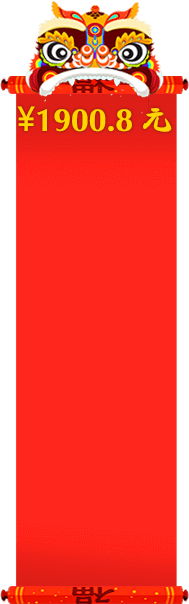
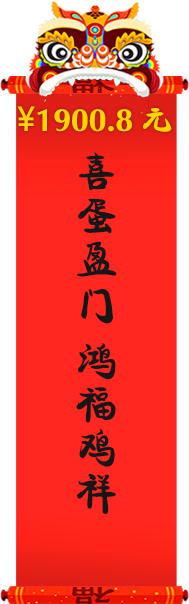
正常提交

diff --git a/LaneWeChat/yangjiguanjia/send_happyegg/buy_egg.html b/LaneWeChat/yangjiguanjia/send_happyegg/buy_egg.html
@@ -14,9 +14,43 @@
 		body{height: 100%;width: 100%;background-color:#efa230;}
 		.price_ul{margin:0 auto;margin-top: 2.5rem;width: 6.9rem;height: 6rem;}
 		.price_ul li{float: left;width: 1.8rem;margin:0 .25rem;position: relative;}
-		.kuang{position: absolute;bottom: .3rem;left: 50%;width: .5rem;height:.5rem;border:2px solid #000;border-radius:.1rem;margin-left: -0.2rem;}
-		.gou{height: .5rem;width: .5rem;}
+		.kuang{position: absolute;bottom: .3rem;left: 50%;width: .3rem;height:.3rem;border:2px solid #000;border-radius:.1rem;margin-left: -0.2rem;}
+		.gou{height: .3rem;width: .5rem;}
 		.username{width:4.6rem;height:0.9rem;line-height:.9rem;font-family:黑体;font-size: .28rem;color: #000;background-color: #fff;text-align: center;border-radius: .1rem;margin:0 auto;display: block;margin-top: 0.2rem;}
+		.weui-agree__checkbox:checked:before {
+		    font-family: weui;
+		    font-style: normal;
+		    font-weight: 400;
+		    font-variant: normal;
+		    text-transform: none;
+		    text-align: center;
+		    speak: none;
+		    display: inline-block;
+		    vertical-align: middle;
+		    text-decoration: inherit;
+		    content: "\EA08";
+		    color: #09bb07;
+		    font-size: 13px;
+		    position: absolute;
+		    top: 50%;
+		    left: 50%;
+		    -webkit-transform: translate(-50%,-48%) scale(.73);
+		    transform: translate(-50%,-48%) scale(.73);
+		}
+		.weui-agree__checkbox {
+		    -webkit-appearance: none;
+		    appearance: none;
+		    outline: 0;
+		    font-size: 0;
+		    border: 1px solid #d1d1d1;
+		    background-color: #fff;
+		    border-radius: 3px;
+		    width: 13px;
+		    height: 13px;
+		    position: relative;
+		    vertical-align: 0;
+		    top: 2px;
+		}
 		</style>
 	</head>
 	<body>
@@ -28,7 +62,7 @@
 					<label for="x11">
 						<img src="assets/img/buy_1.png" alt="">
 						<div @click='chose_price(0)' class="kuang">
-	                    	<input type="radio" name="radio1" class="weui-check" id="x11" v-model="picked" value="1900.8">
+	                 <input type="radio"  class="weui-check" id="x11" v-model="picked" value="1900.8">
 	                    	<img v-show=arr[0] class="gou" src="assets/img/gou.png" alt="">
 	                    </div>
 					</label>
@@ -37,7 +71,7 @@
 					<label for="x12">
 						<img src="assets/img/buy_2.png" alt="">
 						<div @click='chose_price(1)' class="kuang">
-	                    	<input type="radio" name="radio1" class="weui-check" id="x12" v-model="picked" value="950.6">
+	                  <input type="radio"  class="weui-check" id="x12" v-model="picked" value="950.6">
 	                   	 	<img v-show=arr[1] class="gou" src="assets/img/gou.png" alt="">
 	               		 </div>
 					</label>
@@ -46,15 +80,21 @@
 					<label for="x13">
 						<img src="assets/img/buy_3.png" alt="">
 						<div @click='chose_price(2)' class="kuang">
-	                    	<input type="radio" name="radio1" class="weui-check" id="x13" v-model="picked" value="39.6">
+	                   <input type="radio"  class="weui-check" id="x13" v-model="picked" value="39.6">
 	                    	<img v-show=arr[2] class="gou" src="assets/img/gou.png" alt="">
 	                	</div>
 					</label>
 				</li>
 			</ul>
-			<div class="weui-cell__bd">
+			<div style="margin-bottom: 1rem;" class="weui-cell__bd">
                    <input class="username" v-model="name" type="text" placeholder="请输入您的名字">
-                   <p style="margin-bottom: 1.2rem;" @click='show_wishword(0)' class="username">{{message}}</p>
+                   <p style="margin-bottom: .1rem;" @click='show_wishword(0)' class="username">{{message}}</p>
+                   <label @click='agree' style="width: 4.6rem;margin:0 auto;" for="weuiAgree" class="weui-agree">
+            			<input id="weuiAgree" class="weui-agree__checkbox" type="checkbox" checked="checked">
+            			<span style="font-family: '黑体';color: #171717;font-weight: .18rem;" class="weui-agree__text">
+                		我已阅读并同意<a href="javascript:void(0);">《活动规则》</a>
+            			</span>
+        			</label>
             </div>
            <!--  <div @click='showwish_word(0)' class="page__bd page__bd_spacing">
         			<a href="javascript:;" class="weui-btn weui-btn_default" style="height: 1rem;font-size: .32rem;line-height: 1rem;width: 4.6rem;background-color: #da3522;font-family: 黑体;">请选择祝福语</a>
@@ -66,7 +106,9 @@
                 		<div @click='chose_wishword(0)' class="weui-actionsheet__cell">{{wish_arr[0]}}</div>
                 		<div @click='chose_wishword(1)' class="weui-actionsheet__cell">{{wish_arr[1]}}</div>
                			<div @click='chose_wishword(2)' class="weui-actionsheet__cell">{{wish_arr[2]}}</div>
-                		<div @click='chose_wishword(3)' class="weui-actionsheet__cell">{{wish_arr[3]}}</div>
+               			<div @click='chose_wishword(3)' class="weui-actionsheet__cell">{{wish_arr[3]}}</div>
+               			<div @click='chose_wishword(4)' class="weui-actionsheet__cell">{{wish_arr[4]}}</div>
+               			<div @click='chose_wishword(5)' class="weui-actionsheet__cell">{{wish_arr[5]}}</div>
             		</div>
             	<div @click='show_wishword(1)' class="weui-actionsheet__action">
                 	<div class="weui-actionsheet__cell">取消</div>
@@ -134,23 +176,28 @@
 			var app = new Vue({
 			  el: '#app',
 			  data: {
-			    wish_arr: ['鸡年大吉','恭喜发财','1234','5678'],
+			    wish_arr: ['大鸡大利','新春快乐','鸡年大吉','吉祥如意','万事大吉','财源广进'],
 			    message:'鸡年大吉',
 			    name:'',
-			    picked:1,
-			    arr:[true,false,false],
-			    wish_word:false
+			    picked:'39.6',
+			    arr:[false,false,true],
+			    wish_word:false,
+			    dis_agree:true,
+			    wish_index:''
 			  },
 			  methods:{
 			  	next_step:function(){
 			  		if(this.name==""){
 			  			alert("请输入姓名")
+			  		}else if(!this.dis_agree){
+			  			alert("请阅读活动规则")
 			  		}else{
-			  			localStorage.setItem("product",JSON.stringify({"name":this.name,"id":this.picked,"hope":this.message}))
+			  			localStorage.setItem("product",JSON.stringify({"name":this.name,"id":this.picked,"hope":this.message,"index":this.wish_index}))
 			  			location.href="pay_egg.html"
 			  		}
 			  	},
 			  	chose_price:function(index){
+			  		
 			  		this.arr=[false,false,false];
 			  		this.arr[index]=true;
 			  	},
@@ -164,6 +211,10 @@
 			  	chose_wishword:function(index){
 			  			this.message=this.wish_arr[index];
 			  			this.wish_word=false;
+			  			this.wish_index=index;
+			  	},
+			  	agree:function(){
+			  			this.dis_agree=!this.dis_agree;
 			  	}
 			  }
 			})

diff --git a/LaneWeChat/yangjiguanjia/send_happyegg/pay_egg.html b/LaneWeChat/yangjiguanjia/send_happyegg/pay_egg.html
@@ -16,54 +16,51 @@
 			.part li{float: left;margin: 0 .1rem;position: relative;}
 			.part img{width: 1.5rem;}
 			.posi{position: absolute;bottom: .06rem;left: .55rem;font-size: .26rem;color: #222222}
-			.posi_x{position: absolute;bottom: .8rem;left: .9rem;font-size: .3rem;color: #222222}
 		</style>
 	</head>
 	<body>
 		<div id="app">
-			<div v-show='dis' style="position: fixed;top:5rem;background-color: #fff;font-size: .4rem;width: 8rem;padding-bottom: .5rem;">
+			<div v-show='dis' style="position: fixed;top:8rem;background-color: #fff;font-size: .4rem;width: 8rem;padding-bottom: .5rem;z-index: 999;">
 				<div class="weui-cell">
-                     <div class="weui-cell__hd"><label style="width: 1.5rem;" class="weui-label">份数</label></div>
+                     <div class="weui-cell__hd"><label style="width: 1.2rem;" class="weui-label">份数</label></div>
                      <div class="weui-cell__bd">
-                     	<input class="weui-input" v-model="num" type="number" placeholder="请输入您要购买的份数(1~100)">
+                     	<input style="text-align: center;width: 5rem;margin: 0 auto;" autofocus="autofocus" class="weui-input" v-model="num" type="number" placeholder="请输入赠送人数(1~100)" onkeyup="value=value.replace(/\./,'')">
                      </div>
                 </div>
-                <a style="height: 1rem;font-size: .32rem;line-height: 1rem;width: 5rem;background-color: #f9481d
-;margin-top: .2rem;" class="weui-btn weui-btn_primary" href="javascript:void(0)" @click="sure">确定</a>
+                <a style="height:1rem;font-size:.32rem;line-height:1rem;width:5rem;background-color:#f9481d
+      ;margin-top: .2rem;" class="weui-btn weui-btn_primary" href="javascript:void(0)" @click="sure">确定</a>
 			</div>
 			<!-- <p style="font-size: .32rem;margin-top: .2rem;width: 100%;height: 5rem;background: gainsboro;color: darkslategray;">大吉大利,祝TA新年快乐!</p> -->
 			<img src="assets/img/1.jpg" alt="">
 			<div>
+				<p style="font-family: Microsoft YaHei;font-size: .24rem;color: #f9481d;margin-bottom: .2rem;margin-left: .3rem;">请选择要赠送的人数</p>
 				<ul class="part">
 					<li @click="changesrc(0)">
 						<label for="x11">
 							<img v-bind:src=src+arr[0]+'.png' alt="">
-							<span class="posi">1份</span>
-							<input type="radio" class="weui-check" name="radio1" id="x11" v-model="person" value="1">
+							<span class="posi">1人</span>
+							<input type="radio" class="weui-check"  id="x11" v-model="person" value="1">
 						</label>
 					</li>
 					<li @click="changesrc(1)">
 						<label for="x12">
 							<img v-bind:src=src+arr[1]+'.png' alt="">
-							<span class="posi">5份</span>
-							<span class="posi_x">x5</span>
-							<input input type="radio" name="radio1" class="weui-check" id="x12" v-model="person" value="5">
+							<span class="posi">5人</span>
+							<input input type="radio"  class="weui-check" id="x12" v-model="person" value="5">
 						</label>
 					</li>
 					<li @click="changesrc(2)">
 						<label for="x13">
 							<img v-bind:src=src+arr[2]+'.png' alt="">
-							<span class="posi" style="left: .5rem;">10份</span>
-							<span class="posi_x">x10</span>
-							<input type="radio" name="radio1" class="weui-check" id="x13" v-model="person" value="10">
+							<span class="posi" style="left: .5rem;">10人</span>
+							<input type="radio"  class="weui-check" id="x13" v-model="person" value="10">
 						</label>
 					</li>
 					<li @click="changesrc(3)">
 						<label for="x14">
 							<img v-bind:src=src+arr[3]+'.png' alt="">
-							<span class="posi" style="left: .5rem;">其它</span>
-							<span class="posi_x">x{{num1}}</span>
-							<input type="radio" class="weui-check" name="radio1" id="x14" v-model="person">
+							<span class="posi" style="left: .5rem;">{{num1}}</span>
+							<input type="radio" class="weui-check"  id="x14" v-model="person">
 						</label>
 					</li>
 				</ul>
@@ -107,7 +104,7 @@
 		            </label>
 		        </div> -->
 		        <div class="weui-btn-area" style="margin-top: .3rem;">
-		            <a style="height: 1rem;font-size: .32rem;line-height: 1rem;width: 5rem;background-color: #f9481d;" class="weui-btn weui-btn_primary" href="javascript:void(0)" @click="pay" id="showTooltips">立即付款</a>
+		            <a style="height: 1rem;font-size: .32rem;line-height: 1rem;width: 5rem;background-color: #f9481d;" class="weui-btn weui-btn_primary" href="javascript:void(0)" @click="pay" id="showTooltips">立即付款<i style="color: black;">{{total_price}}元</i></a>
 		        </div>
 		    </div>
 	    </div>
@@ -121,12 +118,22 @@
 			    message: '',
 			    person:1,
 			    flag:true,
-			    num1:'N',
 			    num:'',
+			    num1:'其它',
 			    src:"assets/img/hongbao",
-			    arr:['xz','1','1','1'],
+			    arr:['xz','','',''],
 			    dis:false,
-			    disable:true
+			    disable:true,
+			    total_price:39.6,
+			    myid:1
+			  },
+			  created:function(){
+			  	this.myid=JSON.parse(localStorage.getItem("product")).id;
+			  },
+			  computed:{
+			  	total_price:function(){
+			  		return parseFloat(this.person*this.myid).toFixed(2);
+			  	}
 			  },
 			  methods:{
 			  	pay:function(){
@@ -170,7 +177,6 @@
 					   ); 
 			  	},
 			  	callpay:function(){
-			  		
 			  		if (typeof WeixinJSBridge == "undefined"){
 					   if( document.addEventListener ){
 					       document.addEventListener('WeixinJSBridgeReady',this.onBridgeReady, false);
@@ -183,12 +189,8 @@
 					}
 			  	},
 			  	changesrc:function(index){
-			  		if(index==0){
-			  			this.arr=['xz','1','1','1'];
-			  		}else{
-			  			this.arr=['','1','1','1'];
-			  			this.arr[index]='1xz';
-			  		}
+			  		this.arr=['','','',''];
+			  		this.arr[index]='xz';
 			  		if(index==3){
 			  			this.dis=true;
 			  			this.disable=false;
@@ -196,8 +198,8 @@
 			  		if(index!=3){
 			  			this.dis=false;
 			  			this.disable=true;
-			  			this.num1='N';
 			  			this.num='';
+			  			this.num1='其它';
 			  		}
 			  	},
 			  	sure:function(){
@@ -205,13 +207,12 @@
 			  			alert('购买份数在100份以内')
 			  			this.num='';
 			  		}else if(this.num==''){
-			  			this.num1='N';
 			  			alert('请输入您要购买的份数')
 			  		}else{
 			  			this.dis=false;
-			  			this.num1=this.num;
 			  			this.person=this.num;
 			  			this.disable=true;
+			  			this.num1=this.num+'人';
 			  		}
 			  	}
 			  }

diff --git a/LaneWeChat/yangjiguanjia/send_happyegg/wish_egg.html b/LaneWeChat/yangjiguanjia/send_happyegg/wish_egg.html
@@ -31,7 +31,7 @@
 		    	<div v-show='disp' class="mask_img">
 		    		<img style="width: 6rem;display: block;margin: 0 auto;" src="assets/img/wish.png" alt="">
 		    		<img @click="turnoff" style="display: block;margin: 0 auto;margin-top: .8rem;width: .6rem;" src="assets/img/x.png" alt="">
-		    		<p style="width: .7rem;font-size: .7rem;color:#000;position: absolute;top: 3.9rem;left: 3.4rem;line-height: .7rem;">{{wish}}</p>
+		    		<img style="position: absolute;left: 3.3rem;top: 3.3rem;height: 4rem;" v-bind:src=src+arr[this.wish_index]+'.png' alt="">
 		    	</div>
 	    </div>
 		<script src="assets/js/vue.min.js" type="text/javascript" charset="utf-8"></script>
@@ -40,15 +40,17 @@
 			  el: '#app',
 			  data: {
 			  	disp:true,
-			  	wish:'',
-			  	user_name:""
+			  	wish_index:'1',
+			  	user_name:"",
+			  	arr:[0,1,2,3,4,5],
+			  	src:'assets/img/zf'
 
 			  },
 			  created:function(){
-			  	var hope=JSON.parse(localStorage.getItem("order_sender")).wish_word;
+			  	var index=JSON.parse(localStorage.getItem("order_sender")).index;
 			  	var user_name=JSON.parse(localStorage.getItem("order_sender")).user_name;
 			  	//alert(JSON.parse(localStorage.getItem("order_number")).order_sn)
-			  	this.wish=hope;
+			  	this.wish_index=index;
 			  	this.user_name=user_name
 			  },
 			  methods:{
